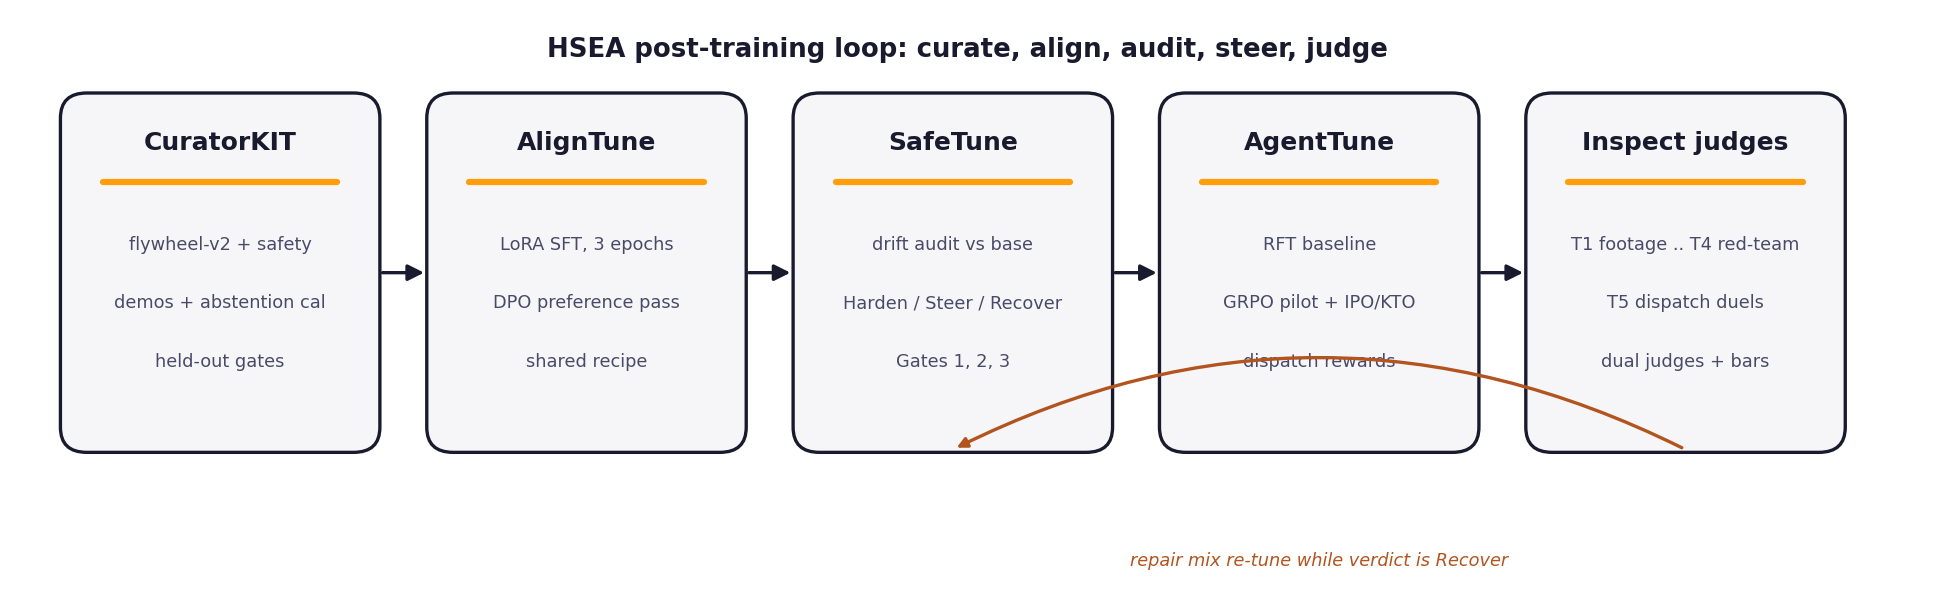
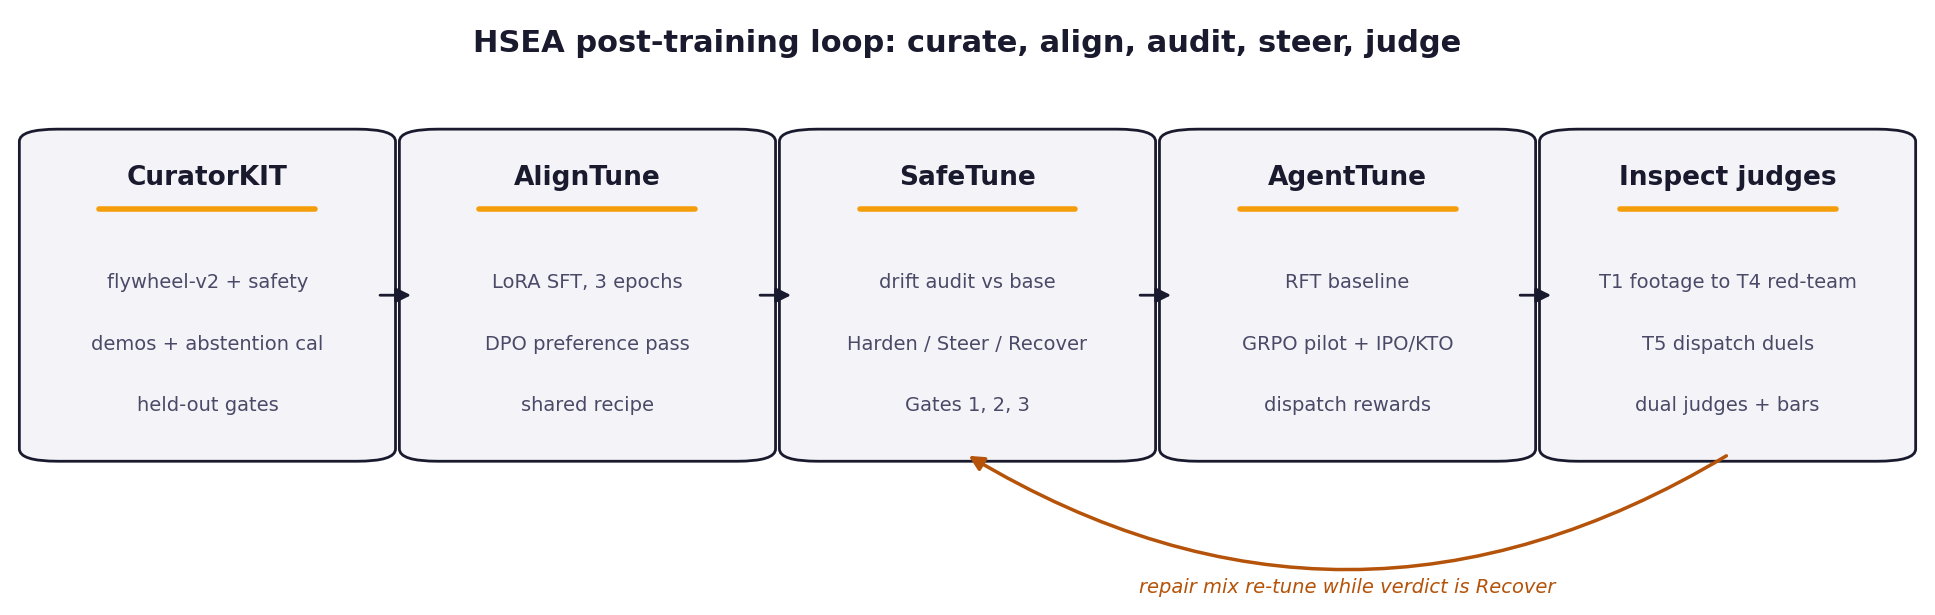
fix(article): route Recover arc below boxes in pipeline diagram + generator

diff --git a/scripts/plot_article_pipeline.py b/scripts/plot_article_pipeline.py
@@ -1,0 +1,92 @@
+"""HSEA post-training loop diagram for the HF community blog post (Fig 1).
+
+Five stage boxes with straight feed-forward arrows plus a Recover
+feedback arc routed fully BELOW the boxes (never through box text),
+from Inspect judges back to SafeTune.
+"""
+
+import matplotlib
+
+matplotlib.use("Agg")
+import matplotlib.pyplot as plt
+from matplotlib.patches import FancyArrowPatch, FancyBboxPatch
+
+INK = "#1a1a2e"
+SLATE = "#4a4a68"
+ORANGE = "#f59e0b"
+RUST = "#b45309"
+BOXFACE = "#f4f4f8"
+
+STAGES = [
+    ("CuratorKIT", ["flywheel-v2 + safety", "demos + abstention cal", "held-out gates"]),
+    ("AlignTune", ["LoRA SFT, 3 epochs", "DPO preference pass", "shared recipe"]),
+    ("SafeTune", ["drift audit vs base", "Harden / Steer / Recover", "Gates 1, 2, 3"]),
+    ("AgentTune", ["RFT baseline", "GRPO pilot + IPO/KTO", "dispatch rewards"]),
+    ("Inspect judges", ["T1 footage to T4 red-team", "T5 dispatch duels", "dual judges + bars"]),
+]
+
+
+def main(out: str) -> None:
+    fig = plt.figure(figsize=(19.35, 6.15), dpi=100)
+    ax = fig.add_axes([0, 0, 1, 1])
+    ax.set_xlim(0, 1)
+    ax.set_ylim(0, 1)
+    ax.axis("off")
+
+    ax.text(0.5, 0.93, "HSEA post-training loop: curate, align, audit, steer, judge",
+            ha="center", va="center", fontsize=22, fontweight="bold", color=INK)
+
+    n = len(STAGES)
+    gap = 0.022
+    box_w = (1 - 0.04 - gap * (n - 1)) / n
+    box_h = 0.52
+    y0 = 0.26
+    centers = []
+    for i, (title, lines) in enumerate(STAGES):
+        x0 = 0.02 + i * (box_w + gap)
+        box = FancyBboxPatch((x0, y0), box_w, box_h,
+                             boxstyle="round,pad=0.01,rounding_size=0.02",
+                             facecolor=BOXFACE, edgecolor=INK, linewidth=2)
+        ax.add_patch(box)
+        cx = x0 + box_w / 2
+        centers.append(cx)
+        ax.text(cx, y0 + box_h - 0.07, title, ha="center", va="center",
+                fontsize=19, fontweight="bold", color=INK)
+        ax.plot([cx - box_w * 0.32, cx + box_w * 0.32],
+                [y0 + box_h - 0.12, y0 + box_h - 0.12],
+                color=ORANGE, linewidth=4, solid_capstyle="round")
+        for j, line in enumerate(lines):
+            ax.text(cx, y0 + box_h - 0.24 - j * 0.10, line,
+                    ha="center", va="center", fontsize=14, color=SLATE)
+
+    # Straight feed-forward arrows between adjacent boxes (mid height).
+    ymid = y0 + box_h / 2
+    for i in range(n - 1):
+        x0 = 0.02 + i * (box_w + gap)
+        tail = (x0 + box_w + 0.002, ymid)
+        head = (x0 + box_w + gap - 0.004, ymid)
+        ax.add_patch(FancyArrowPatch(tail, head, arrowstyle="-|>",
+                                     mutation_scale=22, linewidth=2, color=INK,
+                                     shrinkA=0, shrinkB=0))
+
+    # Recover arc: bottom-center of Inspect judges to bottom-center of
+    # SafeTune, bulging downward into the empty strip below the boxes.
+    a = (centers[4], y0)
+    b = (centers[2], y0)
+    ax.add_patch(FancyArrowPatch(a, b, arrowstyle="-|>", mutation_scale=22,
+                                 linewidth=2.5, color=RUST,
+                                 connectionstyle="arc3,rad=-0.30",
+                                 shrinkA=1, shrinkB=1))
+    ax.text((centers[2] + centers[4]) / 2, 0.045,
+            "repair mix re-tune while verdict is Recover",
+            ha="center", va="center", fontsize=14, fontstyle="italic", color=RUST)
+
+    fig.savefig(out, dpi=100)
+    print("wrote", out)
+
+
+if __name__ == "__main__":
+    import sys
+
+    main(sys.argv[1] if len(sys.argv) > 1 else
+         "docs/articles/assets/high-stakes-embodied-agents/pipeline.png")
